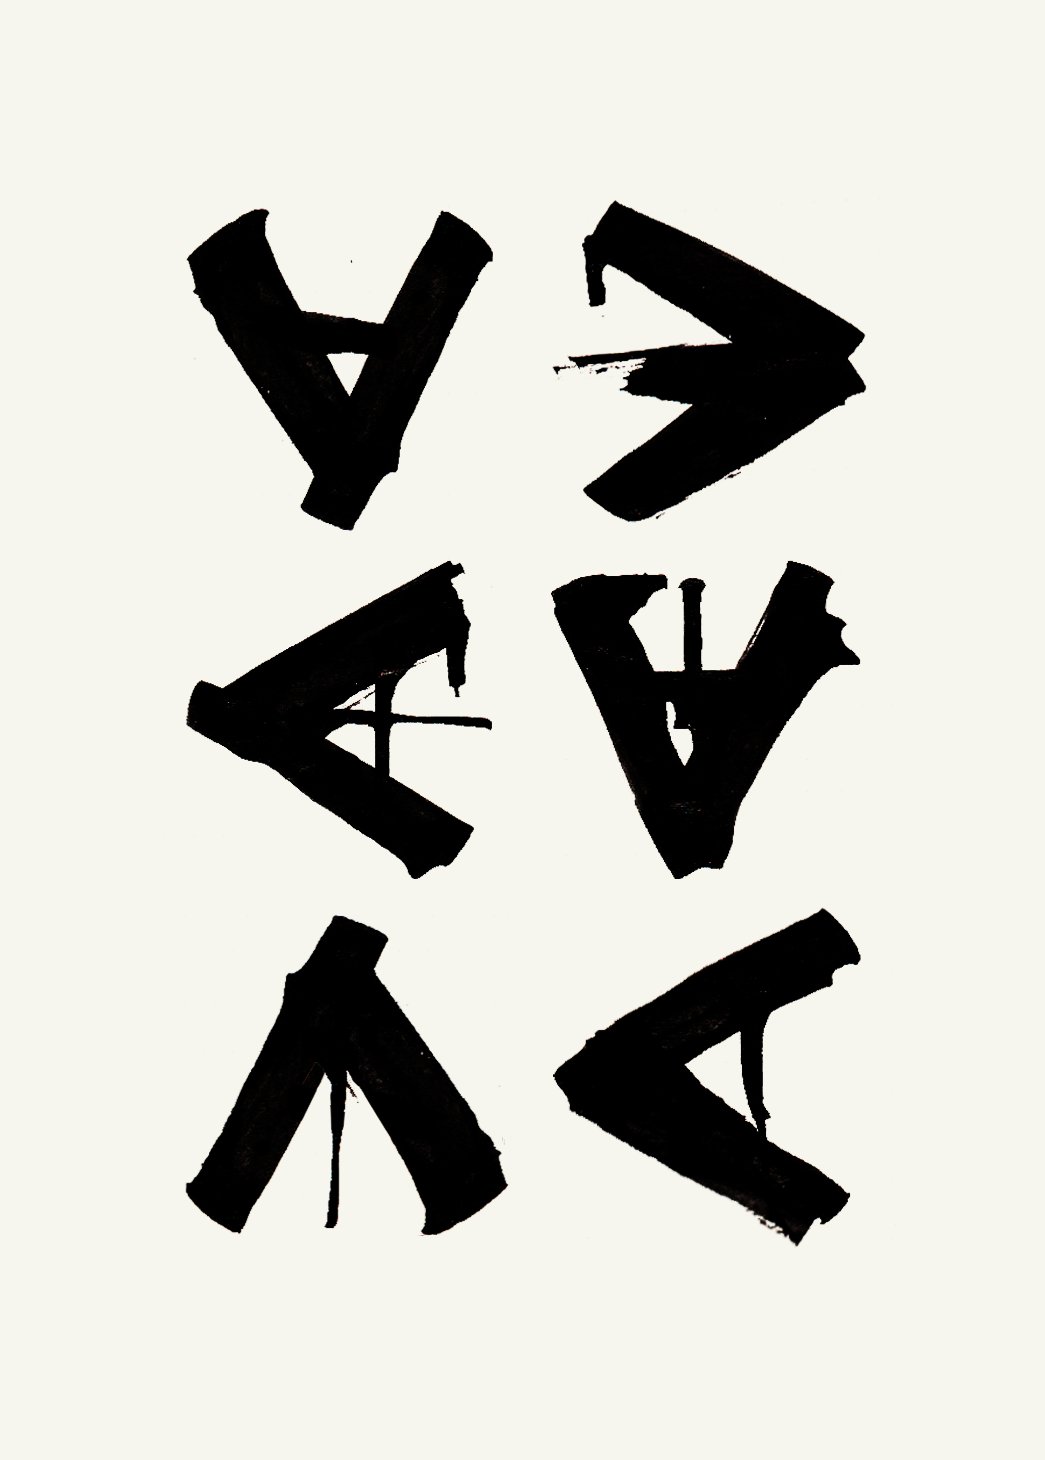
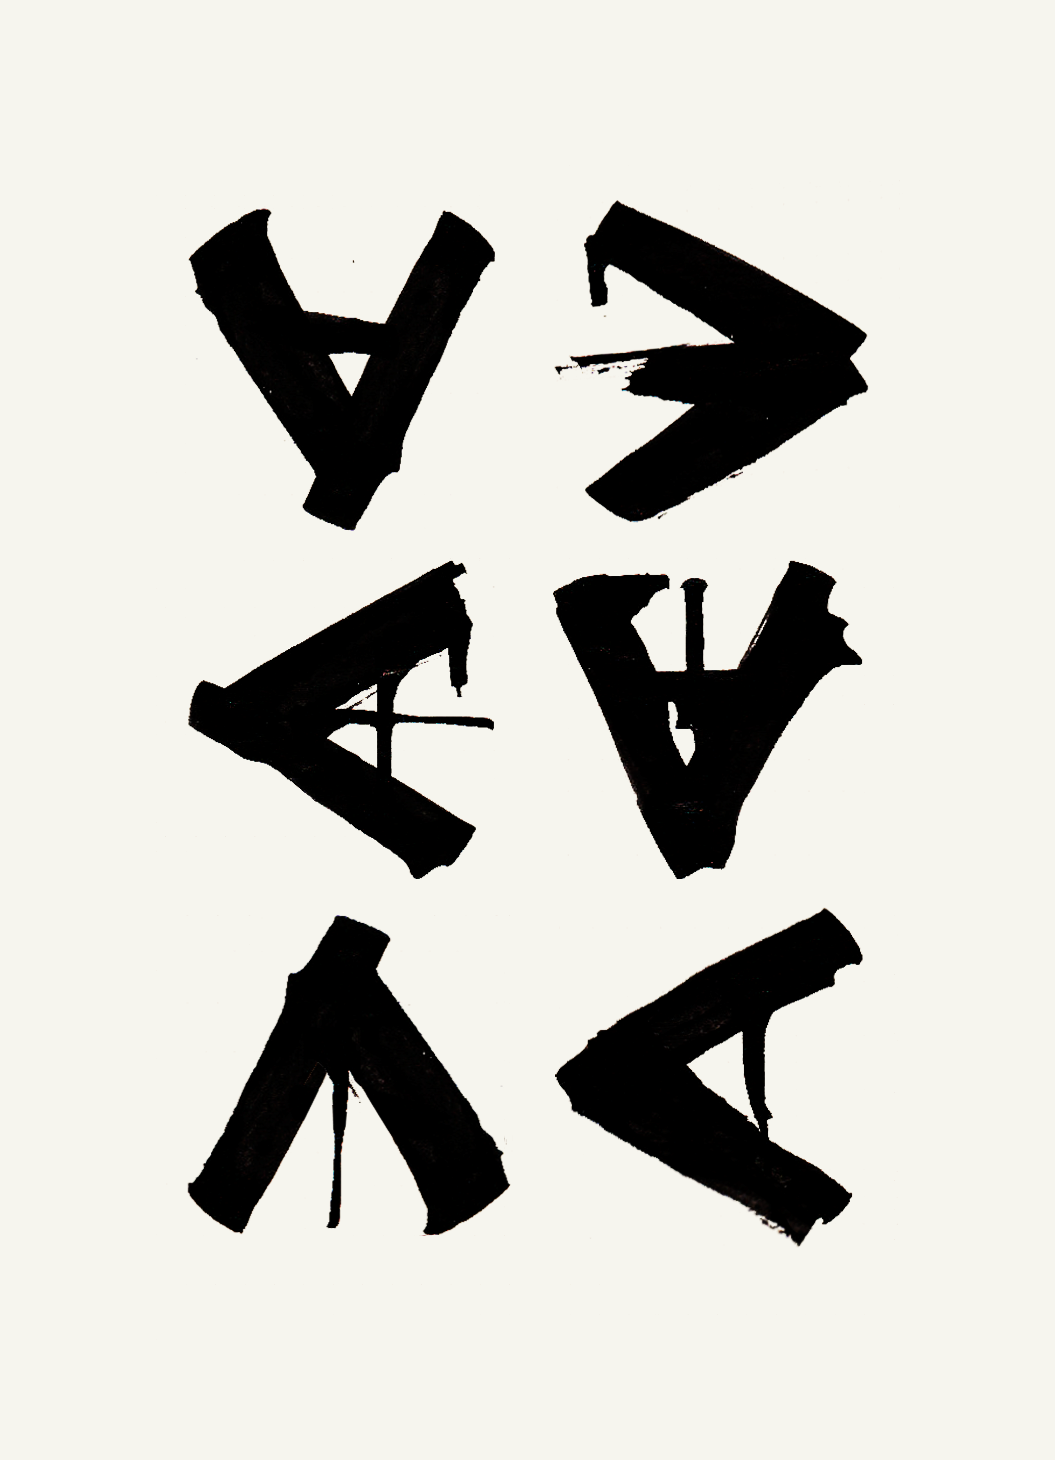
updating inkblots

diff --git a/_posts/2013-12-01-self-referential-inkblots.md b/_posts/2013-12-01-self-referential-inkblots.md
@@ -9,7 +9,7 @@ images:
   - src:    post-016_img.png
     class:  post-img
     width:  600
-    height: 838
+    height: 830
 ---
 V's, rather. Basically what you get when you cross an echo chamber of constraints with sumi ink.
 
